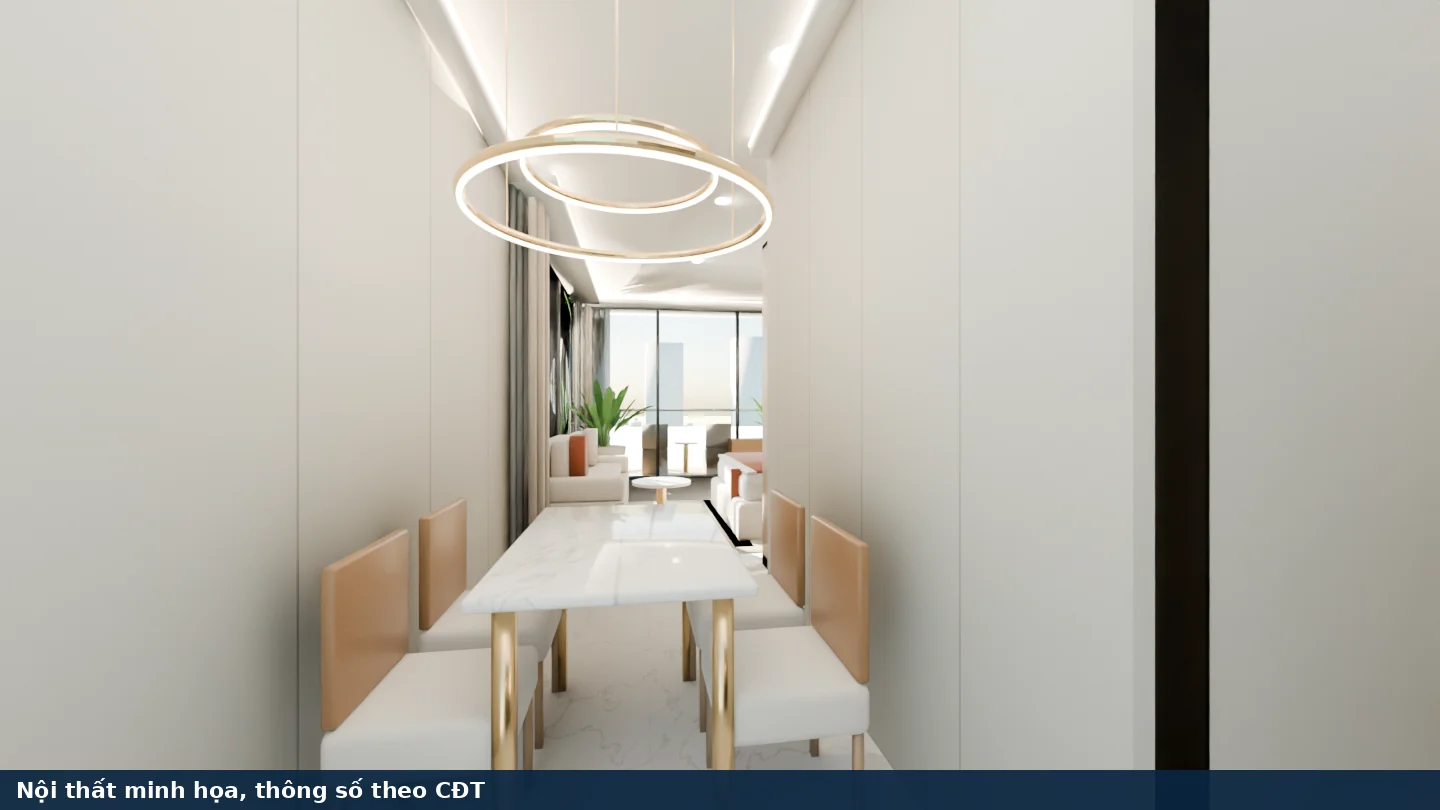
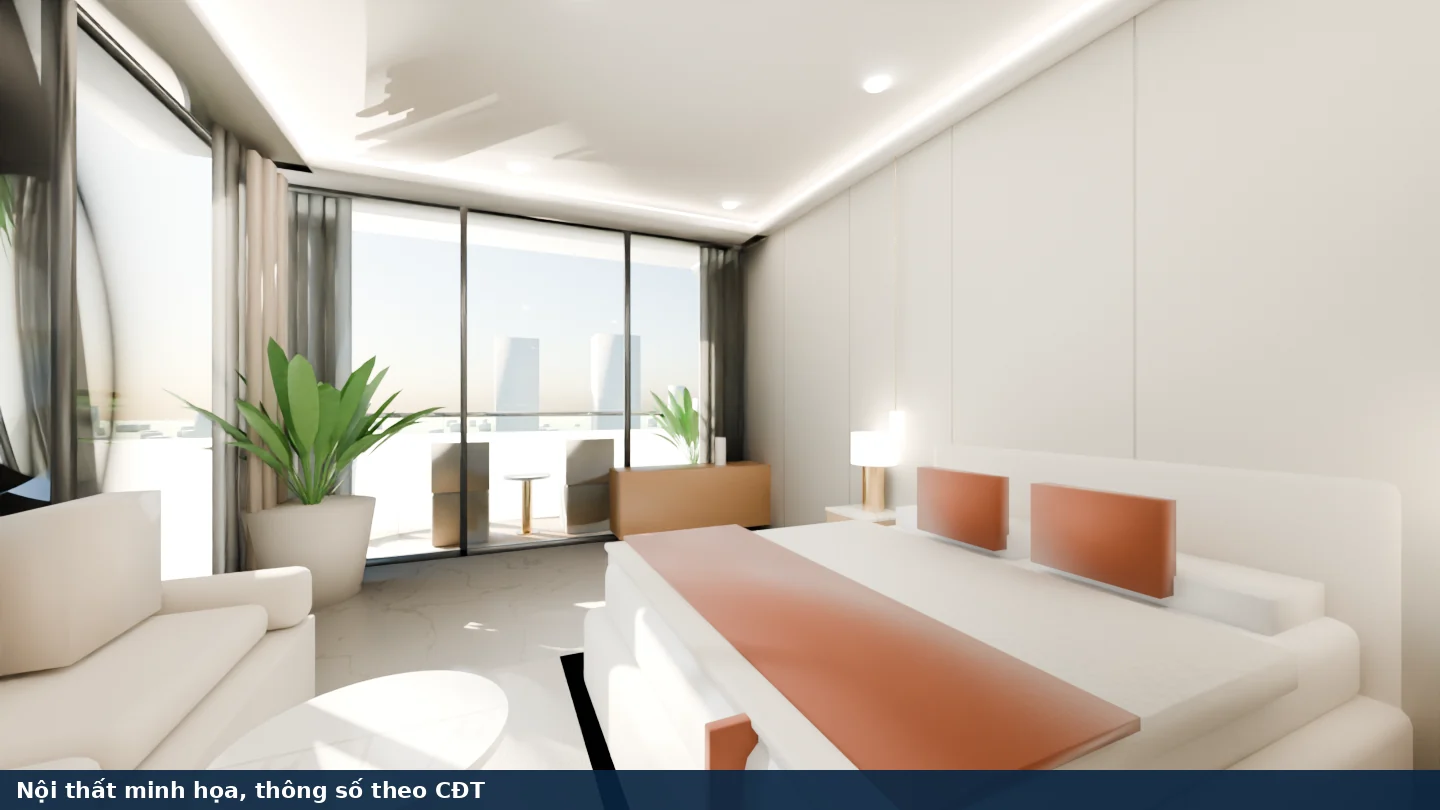
Nội thất: căn 20 bàn 2 chỗ + góc máy thoáng; căn 23 phong cách mới Co-Authored-By: Claude Opus 5.5 <noreply@anthropic.com> Claude-Session: https://claude.ai/code/session_01NC2CYpoTfJafqPT1uZGzKB

diff --git a/projects/sun-saphia/chon-can/chon-can.html b/projects/sun-saphia/chon-can/chon-can.html
@@ -719,7 +719,7 @@ var NT_BASE='https://cdn.jsdelivr.net/gh/hiephoangmt-debug/hoang-hiep-crm@__NTSH
 if(CRM){ var crmCss=document.createElement('style'); crmCss.textContent='.hd>a[href^="tel:"],a.btn.z{display:none!important}'; document.head.appendChild(crmCss); }
 if(CRM) document.addEventListener('DOMContentLoaded',function(){ var hd=document.querySelector('.hd'); if(!hd) return; var d=document.createElement('div'); d.style.cssText='color:#fff;font-weight:800;text-align:right;font-size:13px;line-height:1.35';
   d.innerHTML='Studio tầng 15: 2,13 – 2,85 tỷ*<br><span style="font-weight:600;font-size:11px;color:#C9D6E3">Trả 25% ~533 triệu đến khi nhận nhà · *giá tham khảo CĐT, chưa VAT</span>'; hd.appendChild(d); });
-var NT=/*NT-DATA*/{'30-10':{img:[['sp3010-lux-phong-khach.webp','Phòng khách'],['sp3010-lux-phong-khach-2.webp','Từ lô-gia nhìn vào'],['sp3010-lux-phong-ngu.webp','Phòng ngủ view biển'],['sp3010-lux-phong-plus1.webp','Phòng +1'],['sp3010-lux-mat-bang-3d.webp','Mặt bằng 3D']],vid:'sp3010-lux-video-9x16.mp4'},"30-01":{"img":[["sp-30-01-living.webp","Phòng khách"],["sp-30-01-living2.webp","Nhìn từ lô-gia vào"],["sp-30-01-bed.webp","Phòng ngủ"],["sp-30-01-plus.webp","Phòng +1"]]},"30-02":{"img":[["sp-30-02-living.webp","Phòng khách"],["sp-30-02-living2.webp","Nhìn từ lô-gia vào"],["sp-30-02-bed.webp","Phòng ngủ"],["sp-30-02-plus.webp","Phòng ngủ 2"]]},"30-03":{"img":[["sp-30-03-living.webp","Phòng khách"],["sp-30-03-living2.webp","Nhìn từ lô-gia vào"],["sp-30-03-bed.webp","Phòng ngủ"],["sp-30-03-plus.webp","Phòng ngủ 2"]]},"30-03A":{"img":[["sp-30-03a-living.webp","Phòng khách"],["sp-30-03a-living2.webp","Nhìn từ lô-gia vào"],["sp-30-03a-bed.webp","Phòng ngủ"],["sp-30-03a-plus.webp","Phòng +1"]]},"30-05":{"img":[["sp-30-05-living.webp","Phòng khách"],["sp-30-05-living2.webp","Nhìn từ lô-gia vào"],["sp-30-05-bed.webp","Phòng ngủ"],["sp-30-05-plus.webp","Phòng +1"]]},"30-06":{"img":[["sp-30-06-living.webp","Phòng khách"],["sp-30-06-living2.webp","Nhìn từ lô-gia vào"],["sp-30-06-bed.webp","Phòng ngủ"],["sp-30-06-plus.webp","Phòng +1"]]},"30-07":{"img":[["sp-30-07-living.webp","Phòng khách"],["sp-30-07-living2.webp","Nhìn từ lô-gia vào"],["sp-30-07-bed.webp","Phòng ngủ"],["sp-30-07-plus.webp","Phòng ngủ 2"]]},"30-08":{"img":[["sp-30-08-living.webp","Phòng khách"],["sp-30-08-living2.webp","Nhìn từ lô-gia vào"],["sp-30-08-bed.webp","Phòng ngủ"],["sp-30-08-plus.webp","Phòng +1"]]},"30-09":{"img":[["sp-30-09-living.webp","Phòng khách"],["sp-30-09-living2.webp","Nhìn từ lô-gia vào"],["sp-30-09-bed.webp","Phòng ngủ"],["sp-30-09-plus.webp","Phòng +1"]]},"30-11":{"img":[["sp-30-11-living.webp","Phòng khách"],["sp-30-11-living2.webp","Nhìn từ lô-gia vào"],["sp-30-11-bed.webp","Phòng ngủ"],["sp-30-11-plus.webp","Phòng +1"]]},"30-12":{"img":[["sp-30-12-living.webp","Phòng khách"],["sp-30-12-living2.webp","Nhìn từ lô-gia vào"],["sp-30-12-bed.webp","Phòng ngủ"],["sp-30-12-plus.webp","Phòng +1"]]},"30-12A":{"img":[["sp-30-12a-living.webp","Phòng khách"],["sp-30-12a-living2.webp","Nhìn từ lô-gia vào"],["sp-30-12a-bed.webp","Phòng ngủ"],["sp-30-12a-plus.webp","Phòng +1"]]},"30-12B":{"img":[["sp-30-12b-living.webp","Phòng khách"],["sp-30-12b-living2.webp","Nhìn từ lô-gia vào"],["sp-30-12b-bed.webp","Phòng ngủ"],["sp-30-12b-plus.webp","Phòng +1"]]},"30-15":{"img":[["sp-30-15-living.webp","Phòng khách"],["sp-30-15-living2.webp","Nhìn từ lô-gia vào"],["sp-30-15-bed.webp","Phòng ngủ"],["sp-30-15-plus.webp","Phòng +1"]]},"30-16":{"img":[["sp-30-16-living.webp","Phòng khách"],["sp-30-16-living2.webp","Nhìn từ lô-gia vào"],["sp-30-16-bed.webp","Phòng ngủ"],["sp-30-16-plus.webp","Phòng +1"]]},"G2-01":{"img":[["sp-g2-01-garden.webp","Sân vườn riêng"]]},"G2-02":{"img":[["sp-g2-02-garden.webp","Sân vườn riêng"]]},"G2-03":{"img":[["sp-g2-03-garden.webp","Sân vườn riêng"]]},"G2-03A":{"img":[["sp-g2-03a-garden.webp","Sân vườn riêng"]]},"G3-01":{"img":[["sp-g3-01-garden.webp","Sân vườn riêng"]]},"G3-02":{"img":[["sp-g3-02-garden.webp","Sân vườn riêng"]]},"G3-03":{"img":[["sp-g3-03-garden.webp","Sân vườn riêng"]]},"G3-03A":{"img":[["sp-g3-03a-garden.webp","Sân vườn riêng"]]},"G3-20":{"img":[["sp-g3-20-garden.webp","Sân vườn riêng"]]},"G3-21":{"img":[["sp-g3-21-garden.webp","Sân vườn riêng"]]},"G3-22":{"img":[["sp-g3-22-garden.webp","Sân vườn riêng"]]},"G3-23":{"img":[["sp-g3-23-garden.webp","Sân vườn riêng"]]},"G3-24":{"img":[["sp-g3-24-garden.webp","Sân vườn riêng"]]},"G3-25":{"img":[["sp-g3-25-garden.webp","Sân vườn riêng"]]},"G3-26":{"img":[["sp-g3-26-garden.webp","Sân vườn riêng"]]},"G3-27":{"img":[["sp-g3-27-garden.webp","Sân vườn riêng"]]},"G3-28":{"img":[["sp-g3-28-garden.webp","Sân vườn riêng"]]},"T-01":{"img":[["sp-t-01-living.webp","Phòng khách"],["sp-t-01-living2.webp","Nhìn về bếp & cửa vào"],["sp-t-01-top.webp","Mặt bằng 3D"]]},"T-02":{"img":[["sp-t-02-living.webp","Phòng khách"],["sp-t-02-living2.webp","Nhìn về bếp & cửa vào"],["sp-t-02-top.webp","Mặt bằng 3D"]]},"T-03":{"img":[["sp-t-03-living.webp","Phòng khách"],["sp-t-03-living2.webp","Nhìn từ lô-gia vào"],["sp-t-03-bed.webp","Phòng ngủ"],["sp-t-03-plus.webp","Phòng ngủ 2"],["sp-t-03-top.webp","Mặt bằng 3D"]]},"T-03A":{"img":[["sp-t-03a-living.webp","Phòng khách"],["sp-t-03a-living2.webp","Nhìn từ lô-gia vào"],["sp-t-03a-bed.webp","Phòng ngủ"],["sp-t-03a-plus.webp","Phòng ngủ 2"],["sp-t-03a-top.webp","Mặt bằng 3D"]]},"T-05":{"img":[["sp-t-05-living.webp","Phòng khách"],["sp-t-05-living2.webp","Nhìn về bếp & cửa vào"],["sp-t-05-top.webp","Mặt bằng 3D"]]},"T-06":{"img":[["sp-t-06-living.webp","Phòng khách"],["sp-t-06-living2.webp","Nhìn về bếp & cửa vào"],["sp-t-06-top.webp","Mặt bằng 3D"]]},"T-07":{"img":[["sp-t-07-living.webp","Phòng khách"],["sp-t-07-living2.webp","Nhìn về bếp & cửa vào"],["sp-t-07-top.webp","Mặt bằng 3D"]]},"T-08":{"img":[["sp-t-08-living.webp","Phòng khách"],["sp-t-08-living2.webp","Nhìn về bếp & cửa vào"],["sp-t-08-top.webp","Mặt bằng 3D"]]},"T-09":{"img":[["sp-t-09-living.webp","Phòng khách"],["sp-t-09-living2.webp","Nhìn về bếp & cửa vào"],["sp-t-09-top.webp","Mặt bằng 3D"]]},"T-10":{"img":[["sp-t-10-living.webp","Phòng khách"],["sp-t-10-living2.webp","Nhìn từ lô-gia vào"],["sp-t-10-bed.webp","Phòng ngủ"],["sp-t-10-plus.webp","Phòng +1"],["sp-t-10-top.webp","Mặt bằng 3D"]]},"T-11":{"img":[["sp-t-11-living.webp","Phòng khách"],["sp-t-11-living2.webp","Nhìn từ lô-gia vào"],["sp-t-11-bed.webp","Phòng ngủ"],["sp-t-11-plus.webp","Phòng ngủ 2"],["sp-t-11-top.webp","Mặt bằng 3D"]]},"T-12":{"img":[["sp-t-12-living.webp","Phòng khách"],["sp-t-12-living2.webp","Nhìn về bếp & cửa vào"],["sp-t-12-top.webp","Mặt bằng 3D"]]},"T-12A":{"img":[["sp-t-12a-living.webp","Phòng khách"],["sp-t-12a-living2.webp","Nhìn về bếp & cửa vào"],["sp-t-12a-top.webp","Mặt bằng 3D"]]},"T-12B":{"img":[["sp-t-12b-living.webp","Phòng khách"],["sp-t-12b-living2.webp","Nhìn từ lô-gia vào"],["sp-t-12b-bed.webp","Phòng ngủ"],["sp-t-12b-plus.webp","Phòng +1"],["sp-t-12b-top.webp","Mặt bằng 3D"]]},"T-15":{"img":[["sp-t-15-living.webp","Phòng khách"],["sp-t-15-living2.webp","Nhìn về bếp & cửa vào"],["sp-t-15-top.webp","Mặt bằng 3D"]]},"T-16":{"img":[["sp-t-16-living.webp","Phòng khách"],["sp-t-16-living2.webp","Nhìn về bếp & cửa vào"],["sp-t-16-top.webp","Mặt bằng 3D"]]},"T-17":{"img":[["sp-t-17-living.webp","Phòng khách"],["sp-t-17-living2.webp","Nhìn từ lô-gia vào"],["sp-t-17-bed.webp","Phòng ngủ"],["sp-t-17-plus.webp","Phòng +1"],["sp-t-17-top.webp","Mặt bằng 3D"]]},"T-18":{"img":[["sp-t-18-living.webp","Phòng khách"],["sp-t-18-living2.webp","Nhìn từ lô-gia vào"],["sp-t-18-bed.webp","Phòng ngủ"],["sp-t-18-plus.webp","Phòng ngủ 2"],["sp-t-18-top.webp","Mặt bằng 3D"]]},"T-19":{"img":[["sp-t-19-living.webp","Phòng khách"],["sp-t-19-living2.webp","Nhìn từ lô-gia vào"],["sp-t-19-bed.webp","Phòng ngủ"],["sp-t-19-plus.webp","Phòng ngủ 2"],["sp-t-19-top.webp","Mặt bằng 3D"]]},"T-20":{"img":[["sp-t-20-living.webp","Phòng khách"],["sp-t-20-top.webp","Mặt bằng 3D"]]},"T-21":{"img":[["sp-t-21-living.webp","Phòng khách"],["sp-t-21-living2.webp","Nhìn về bếp & cửa vào"],["sp-t-21-top.webp","Mặt bằng 3D"]]},"T-22":{"img":[["sp-t-22-living.webp","Phòng khách"],["sp-t-22-living2.webp","Nhìn về bếp & cửa vào"],["sp-t-22-top.webp","Mặt bằng 3D"]]},"T-23":{"img":[["sp-t-23-living.webp","Phòng khách"]]}}/*/NT-DATA*/;
+var NT=/*NT-DATA*/{'30-10':{img:[['sp3010-lux-phong-khach.webp','Phòng khách'],['sp3010-lux-phong-khach-2.webp','Từ lô-gia nhìn vào'],['sp3010-lux-phong-ngu.webp','Phòng ngủ view biển'],['sp3010-lux-phong-plus1.webp','Phòng +1'],['sp3010-lux-mat-bang-3d.webp','Mặt bằng 3D']],vid:'sp3010-lux-video-9x16.mp4'},"30-01":{"img":[["sp-30-01-living.webp","Phòng khách"],["sp-30-01-living2.webp","Nhìn từ lô-gia vào"],["sp-30-01-bed.webp","Phòng ngủ"],["sp-30-01-plus.webp","Phòng +1"]]},"30-02":{"img":[["sp-30-02-living.webp","Phòng khách"],["sp-30-02-living2.webp","Nhìn từ lô-gia vào"],["sp-30-02-bed.webp","Phòng ngủ"],["sp-30-02-plus.webp","Phòng ngủ 2"]]},"30-03":{"img":[["sp-30-03-living.webp","Phòng khách"],["sp-30-03-living2.webp","Nhìn từ lô-gia vào"],["sp-30-03-bed.webp","Phòng ngủ"],["sp-30-03-plus.webp","Phòng ngủ 2"]]},"30-03A":{"img":[["sp-30-03a-living.webp","Phòng khách"],["sp-30-03a-living2.webp","Nhìn từ lô-gia vào"],["sp-30-03a-bed.webp","Phòng ngủ"],["sp-30-03a-plus.webp","Phòng +1"]]},"30-05":{"img":[["sp-30-05-living.webp","Phòng khách"],["sp-30-05-living2.webp","Nhìn từ lô-gia vào"],["sp-30-05-bed.webp","Phòng ngủ"],["sp-30-05-plus.webp","Phòng +1"]]},"30-06":{"img":[["sp-30-06-living.webp","Phòng khách"],["sp-30-06-living2.webp","Nhìn từ lô-gia vào"],["sp-30-06-bed.webp","Phòng ngủ"],["sp-30-06-plus.webp","Phòng +1"]]},"30-07":{"img":[["sp-30-07-living.webp","Phòng khách"],["sp-30-07-living2.webp","Nhìn từ lô-gia vào"],["sp-30-07-bed.webp","Phòng ngủ"],["sp-30-07-plus.webp","Phòng ngủ 2"]]},"30-08":{"img":[["sp-30-08-living.webp","Phòng khách"],["sp-30-08-living2.webp","Nhìn từ lô-gia vào"],["sp-30-08-bed.webp","Phòng ngủ"],["sp-30-08-plus.webp","Phòng +1"]]},"30-09":{"img":[["sp-30-09-living.webp","Phòng khách"],["sp-30-09-living2.webp","Nhìn từ lô-gia vào"],["sp-30-09-bed.webp","Phòng ngủ"],["sp-30-09-plus.webp","Phòng +1"]]},"30-11":{"img":[["sp-30-11-living.webp","Phòng khách"],["sp-30-11-living2.webp","Nhìn từ lô-gia vào"],["sp-30-11-bed.webp","Phòng ngủ"],["sp-30-11-plus.webp","Phòng +1"]]},"30-12":{"img":[["sp-30-12-living.webp","Phòng khách"],["sp-30-12-living2.webp","Nhìn từ lô-gia vào"],["sp-30-12-bed.webp","Phòng ngủ"],["sp-30-12-plus.webp","Phòng +1"]]},"30-12A":{"img":[["sp-30-12a-living.webp","Phòng khách"],["sp-30-12a-living2.webp","Nhìn từ lô-gia vào"],["sp-30-12a-bed.webp","Phòng ngủ"],["sp-30-12a-plus.webp","Phòng +1"]]},"30-12B":{"img":[["sp-30-12b-living.webp","Phòng khách"],["sp-30-12b-living2.webp","Nhìn từ lô-gia vào"],["sp-30-12b-bed.webp","Phòng ngủ"],["sp-30-12b-plus.webp","Phòng +1"]]},"30-15":{"img":[["sp-30-15-living.webp","Phòng khách"],["sp-30-15-living2.webp","Nhìn từ lô-gia vào"],["sp-30-15-bed.webp","Phòng ngủ"],["sp-30-15-plus.webp","Phòng +1"]]},"30-16":{"img":[["sp-30-16-living.webp","Phòng khách"],["sp-30-16-living2.webp","Nhìn từ lô-gia vào"],["sp-30-16-bed.webp","Phòng ngủ"],["sp-30-16-plus.webp","Phòng +1"]]},"G2-01":{"img":[["sp-g2-01-garden.webp","Sân vườn riêng"]]},"G2-02":{"img":[["sp-g2-02-garden.webp","Sân vườn riêng"]]},"G2-03":{"img":[["sp-g2-03-garden.webp","Sân vườn riêng"]]},"G2-03A":{"img":[["sp-g2-03a-garden.webp","Sân vườn riêng"]]},"G3-01":{"img":[["sp-g3-01-garden.webp","Sân vườn riêng"]]},"G3-02":{"img":[["sp-g3-02-garden.webp","Sân vườn riêng"]]},"G3-03":{"img":[["sp-g3-03-garden.webp","Sân vườn riêng"]]},"G3-03A":{"img":[["sp-g3-03a-garden.webp","Sân vườn riêng"]]},"G3-20":{"img":[["sp-g3-20-garden.webp","Sân vườn riêng"]]},"G3-21":{"img":[["sp-g3-21-garden.webp","Sân vườn riêng"]]},"G3-22":{"img":[["sp-g3-22-garden.webp","Sân vườn riêng"]]},"G3-23":{"img":[["sp-g3-23-garden.webp","Sân vườn riêng"]]},"G3-24":{"img":[["sp-g3-24-garden.webp","Sân vườn riêng"]]},"G3-25":{"img":[["sp-g3-25-garden.webp","Sân vườn riêng"]]},"G3-26":{"img":[["sp-g3-26-garden.webp","Sân vườn riêng"]]},"G3-27":{"img":[["sp-g3-27-garden.webp","Sân vườn riêng"]]},"G3-28":{"img":[["sp-g3-28-garden.webp","Sân vườn riêng"]]},"T-01":{"img":[["sp-t-01-living.webp","Phòng khách"],["sp-t-01-living2.webp","Nhìn về bếp & cửa vào"],["sp-t-01-top.webp","Mặt bằng 3D"]]},"T-02":{"img":[["sp-t-02-living.webp","Phòng khách"],["sp-t-02-living2.webp","Nhìn về bếp & cửa vào"],["sp-t-02-top.webp","Mặt bằng 3D"]]},"T-03":{"img":[["sp-t-03-living.webp","Phòng khách"],["sp-t-03-living2.webp","Nhìn từ lô-gia vào"],["sp-t-03-bed.webp","Phòng ngủ"],["sp-t-03-plus.webp","Phòng ngủ 2"],["sp-t-03-top.webp","Mặt bằng 3D"]]},"T-03A":{"img":[["sp-t-03a-living.webp","Phòng khách"],["sp-t-03a-living2.webp","Nhìn từ lô-gia vào"],["sp-t-03a-bed.webp","Phòng ngủ"],["sp-t-03a-plus.webp","Phòng ngủ 2"],["sp-t-03a-top.webp","Mặt bằng 3D"]]},"T-05":{"img":[["sp-t-05-living.webp","Phòng khách"],["sp-t-05-living2.webp","Nhìn về bếp & cửa vào"],["sp-t-05-top.webp","Mặt bằng 3D"]]},"T-06":{"img":[["sp-t-06-living.webp","Phòng khách"],["sp-t-06-living2.webp","Nhìn về bếp & cửa vào"],["sp-t-06-top.webp","Mặt bằng 3D"]]},"T-07":{"img":[["sp-t-07-living.webp","Phòng khách"],["sp-t-07-living2.webp","Nhìn về bếp & cửa vào"],["sp-t-07-top.webp","Mặt bằng 3D"]]},"T-08":{"img":[["sp-t-08-living.webp","Phòng khách"],["sp-t-08-living2.webp","Nhìn về bếp & cửa vào"],["sp-t-08-top.webp","Mặt bằng 3D"]]},"T-09":{"img":[["sp-t-09-living.webp","Phòng khách"],["sp-t-09-living2.webp","Nhìn về bếp & cửa vào"],["sp-t-09-top.webp","Mặt bằng 3D"]]},"T-10":{"img":[["sp-t-10-living.webp","Phòng khách"],["sp-t-10-living2.webp","Nhìn từ lô-gia vào"],["sp-t-10-bed.webp","Phòng ngủ"],["sp-t-10-plus.webp","Phòng +1"],["sp-t-10-top.webp","Mặt bằng 3D"]]},"T-11":{"img":[["sp-t-11-living.webp","Phòng khách"],["sp-t-11-living2.webp","Nhìn từ lô-gia vào"],["sp-t-11-bed.webp","Phòng ngủ"],["sp-t-11-plus.webp","Phòng ngủ 2"],["sp-t-11-top.webp","Mặt bằng 3D"]]},"T-12":{"img":[["sp-t-12-living.webp","Phòng khách"],["sp-t-12-living2.webp","Nhìn về bếp & cửa vào"],["sp-t-12-top.webp","Mặt bằng 3D"]]},"T-12A":{"img":[["sp-t-12a-living.webp","Phòng khách"],["sp-t-12a-living2.webp","Nhìn về bếp & cửa vào"],["sp-t-12a-top.webp","Mặt bằng 3D"]]},"T-12B":{"img":[["sp-t-12b-living.webp","Phòng khách"],["sp-t-12b-living2.webp","Nhìn từ lô-gia vào"],["sp-t-12b-bed.webp","Phòng ngủ"],["sp-t-12b-plus.webp","Phòng +1"],["sp-t-12b-top.webp","Mặt bằng 3D"]]},"T-15":{"img":[["sp-t-15-living.webp","Phòng khách"],["sp-t-15-living2.webp","Nhìn về bếp & cửa vào"],["sp-t-15-top.webp","Mặt bằng 3D"]]},"T-16":{"img":[["sp-t-16-living.webp","Phòng khách"],["sp-t-16-living2.webp","Nhìn về bếp & cửa vào"],["sp-t-16-top.webp","Mặt bằng 3D"]]},"T-17":{"img":[["sp-t-17-living.webp","Phòng khách"],["sp-t-17-living2.webp","Nhìn từ lô-gia vào"],["sp-t-17-bed.webp","Phòng ngủ"],["sp-t-17-plus.webp","Phòng +1"],["sp-t-17-top.webp","Mặt bằng 3D"]]},"T-18":{"img":[["sp-t-18-living.webp","Phòng khách"],["sp-t-18-living2.webp","Nhìn từ lô-gia vào"],["sp-t-18-bed.webp","Phòng ngủ"],["sp-t-18-plus.webp","Phòng ngủ 2"],["sp-t-18-top.webp","Mặt bằng 3D"]]},"T-19":{"img":[["sp-t-19-living.webp","Phòng khách"],["sp-t-19-living2.webp","Nhìn từ lô-gia vào"],["sp-t-19-bed.webp","Phòng ngủ"],["sp-t-19-plus.webp","Phòng ngủ 2"],["sp-t-19-top.webp","Mặt bằng 3D"]]},"T-20":{"img":[["sp-t-20-living.webp","Phòng khách"],["sp-t-20-living2.webp","Nhìn về bếp & cửa vào"],["sp-t-20-top.webp","Mặt bằng 3D"]]},"T-21":{"img":[["sp-t-21-living.webp","Phòng khách"],["sp-t-21-living2.webp","Nhìn về bếp & cửa vào"],["sp-t-21-top.webp","Mặt bằng 3D"]]},"T-22":{"img":[["sp-t-22-living.webp","Phòng khách"],["sp-t-22-living2.webp","Nhìn về bếp & cửa vào"],["sp-t-22-top.webp","Mặt bằng 3D"]]},"T-23":{"img":[["sp-t-23-living.webp","Phòng khách"],["sp-t-23-living2.webp","Nhìn về bếp & cửa vào"],["sp-t-23-top.webp","Mặt bằng 3D"]]},"T-24":{"img":[["sp-t-24-living.webp","Phòng khách"]]}}/*/NT-DATA*/;
 function ntKeys(f,id){ var L=LAY(f); return f>=30?['30-'+id]:L==='T2'?['G2-'+id,'T-'+id]:L==='T3'?['G3-'+id,'T-'+id]:['T-'+id]; }
 function ntShow(keys,code){ var el=document.getElementById('nt'); if(!el) return; var d={s:'Nội thất luxury · khách sạn 5–6 sao',img:[],vid:null};
   keys.forEach(function(k){ var x=NT[k]; if(!x) return; d.img=d.img.concat(x.img); if(x.vid&&!d.vid) d.vid=x.vid; });
